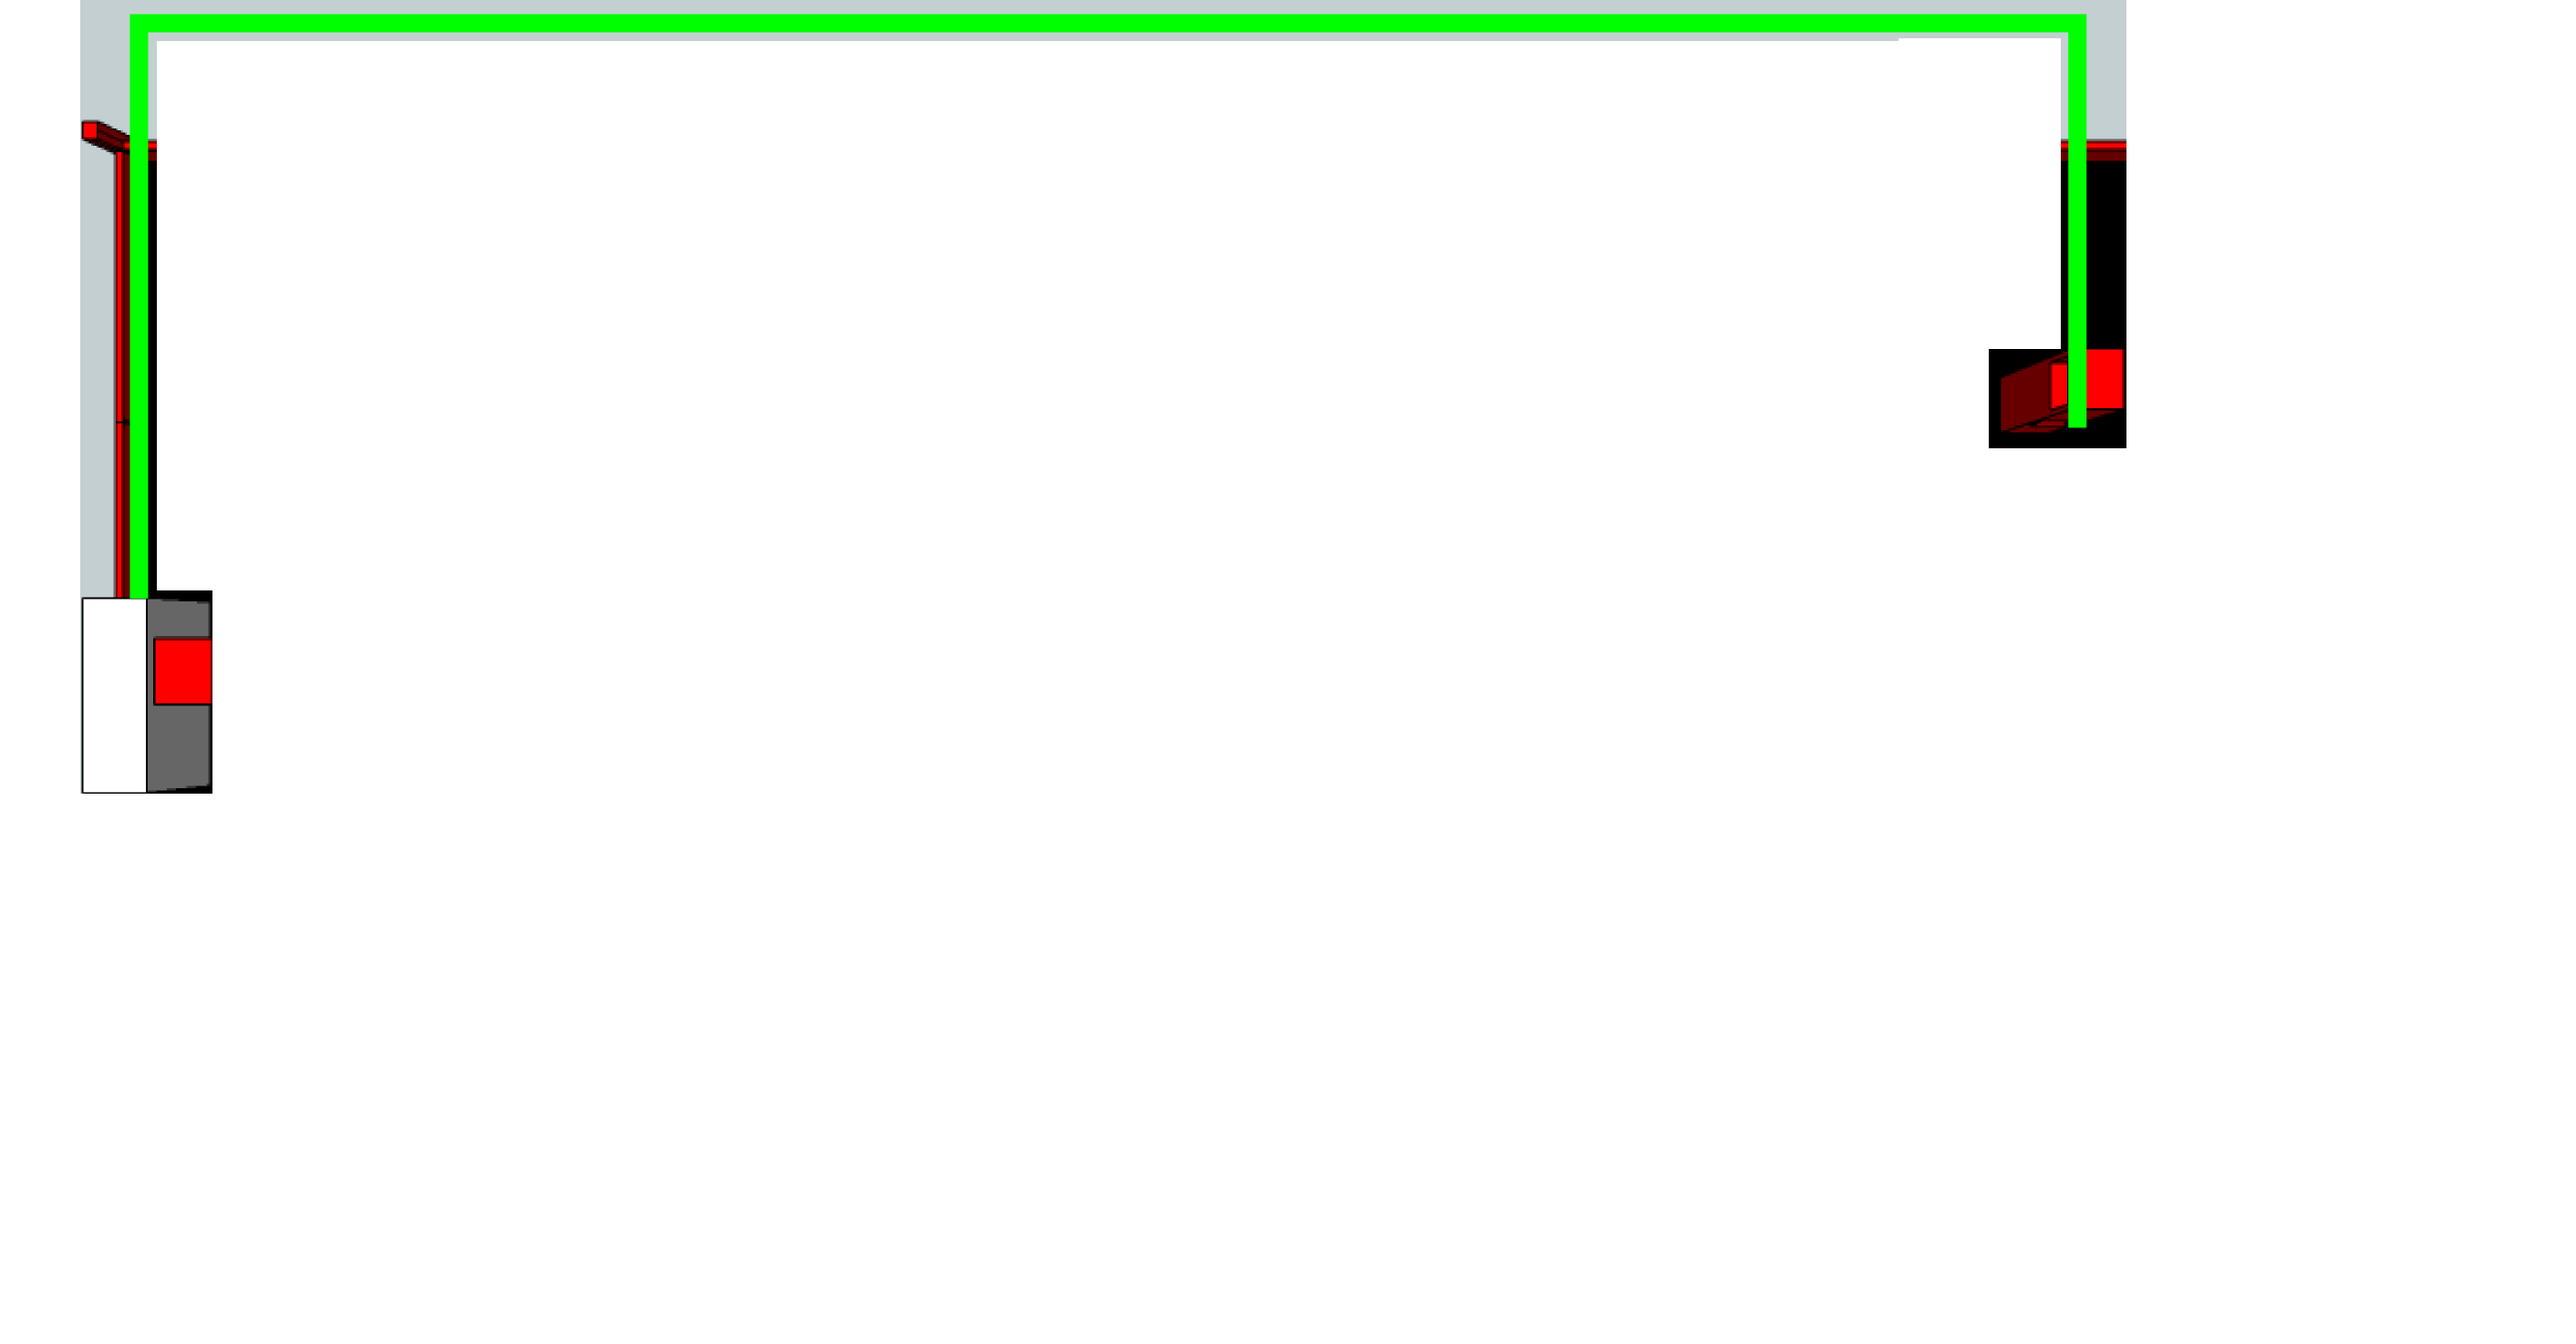
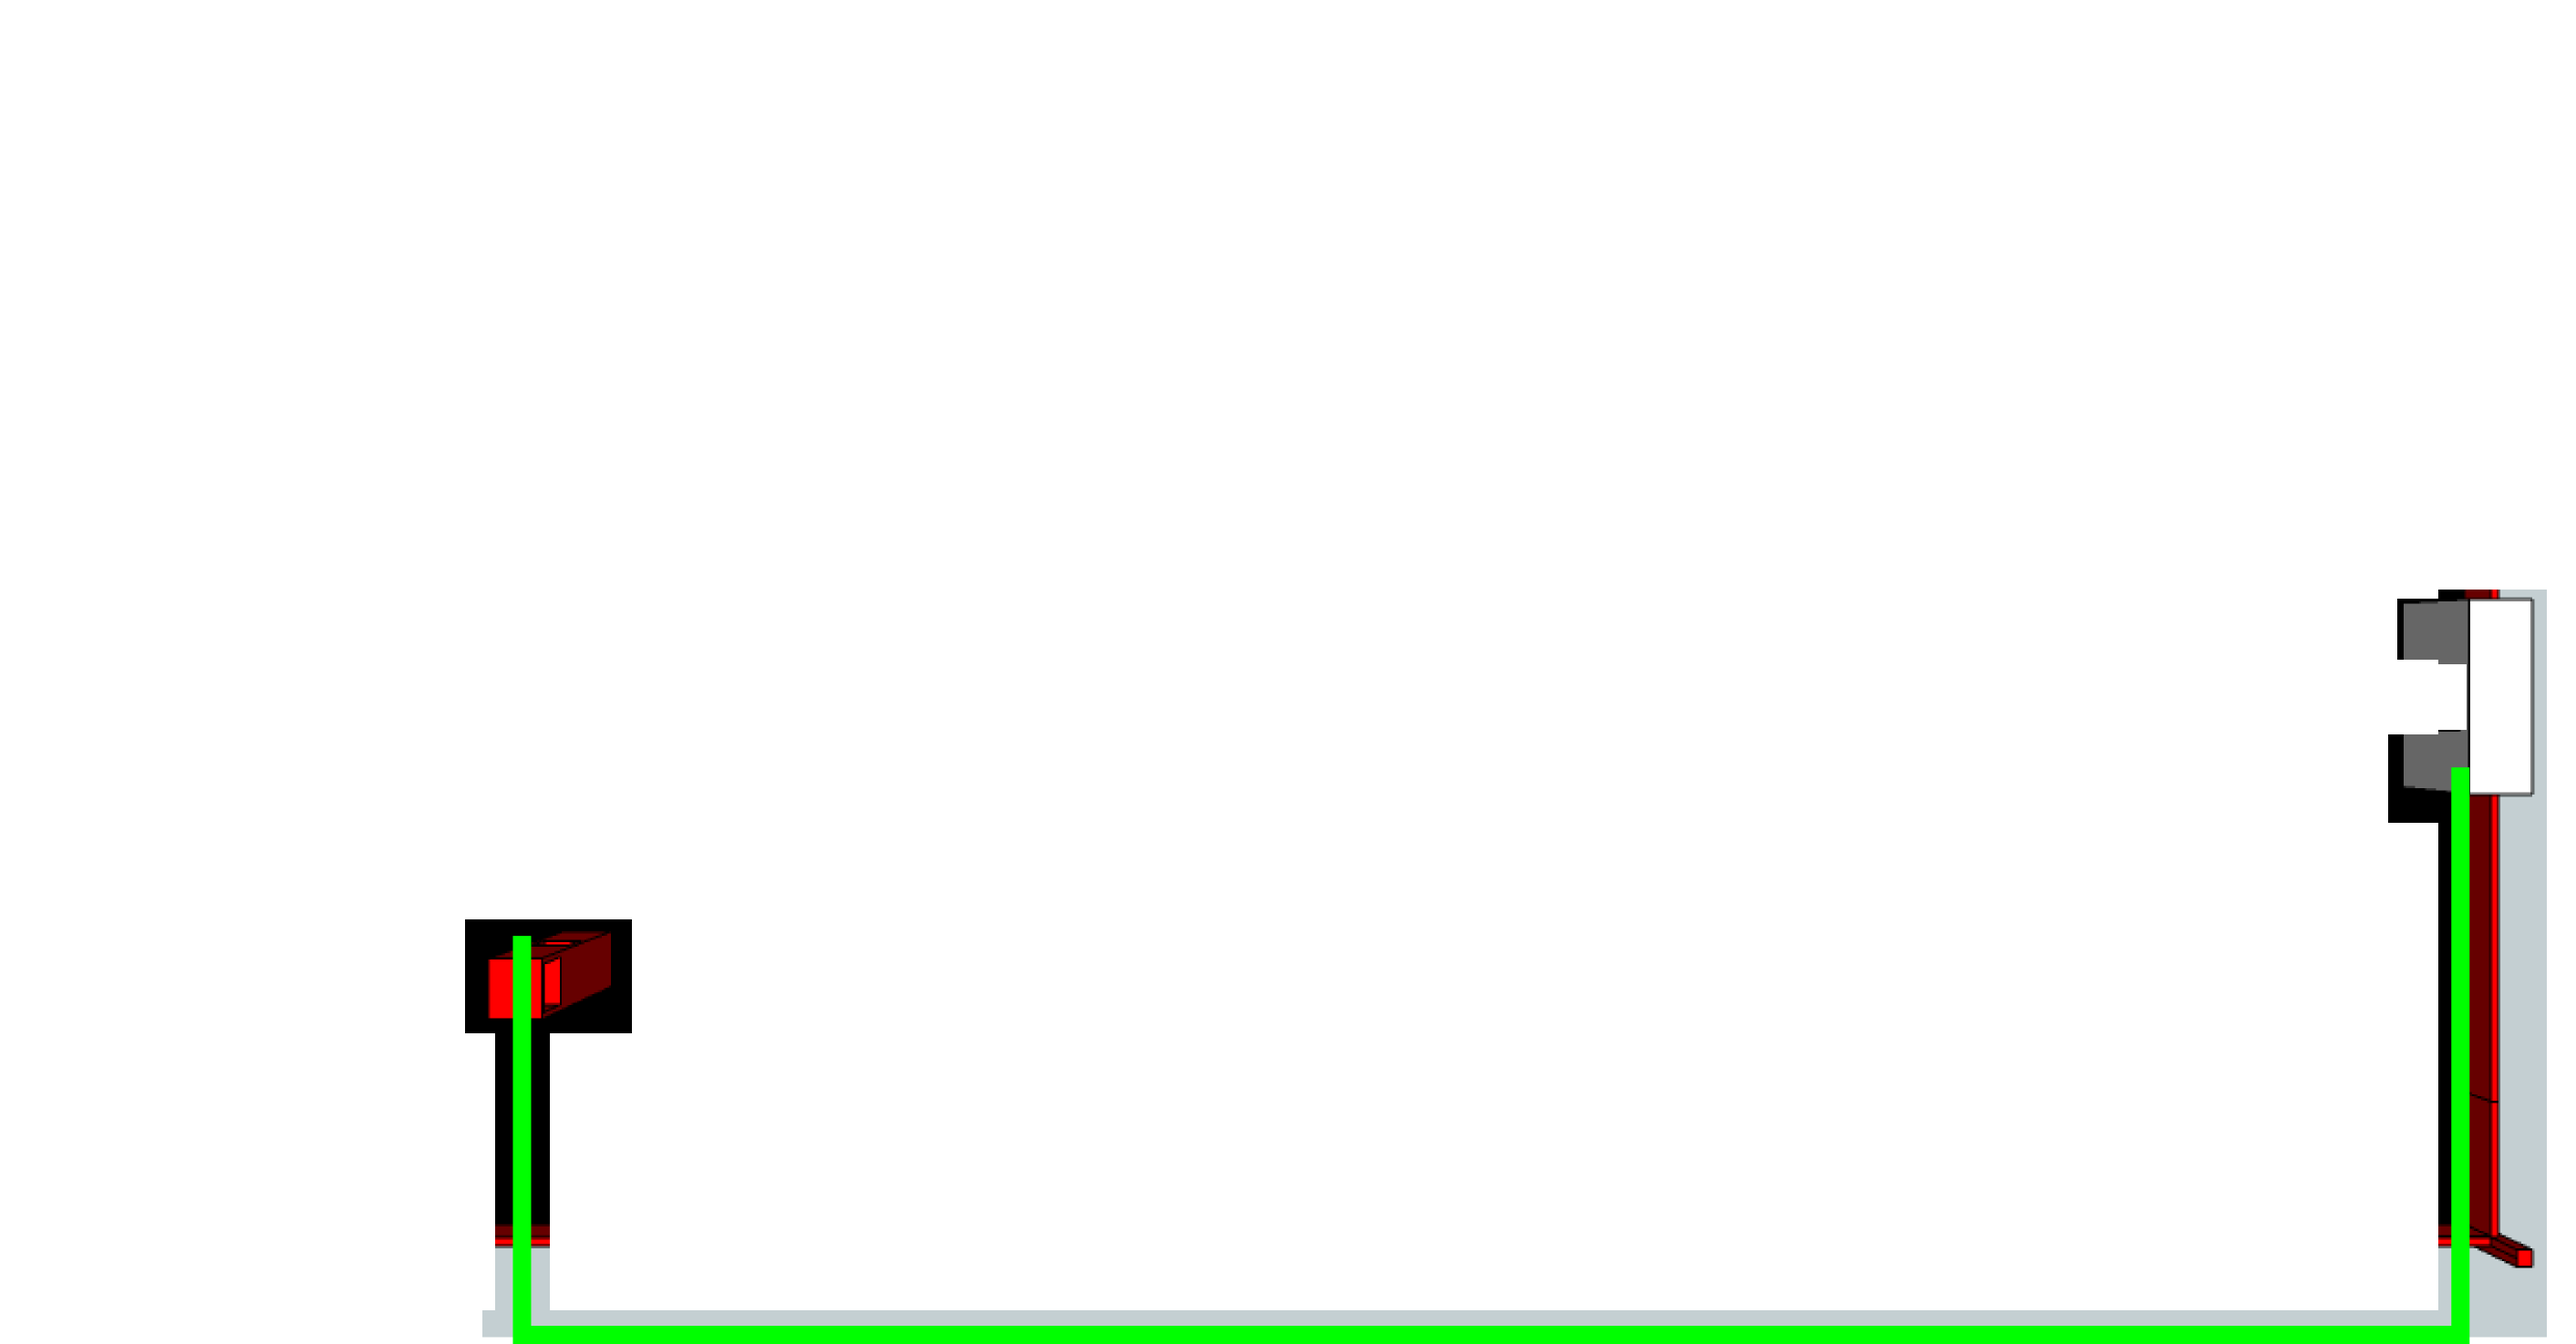
Game CSS starting to work properly.

Changed region(s): [[0.1558, 0.4366, 0.9968, 1.0], [0.0312, 0.0, 0.8411, 0.5925]]

diff --git a/src/server/src/main/webapp/css/game.css b/src/server/src/main/webapp/css/game.css
@@ -1,11 +1,27 @@
 .fieldImage
 {
-	position:absolute;
-	top: 0px;
-	left: 0px;
+	position:relative;
+	float: left;
+	left: 100%;
+	margin-left: -100%;
+	width:100%;
 }
 
 .playfield
 {
 	position: relative;
+	display: block;
+	float:left;
+}
+
+.team
+{
+	float:left;
+	padding-left: 25%;
+}
+
+
+.clear
+{
+	clear:both;
 }
